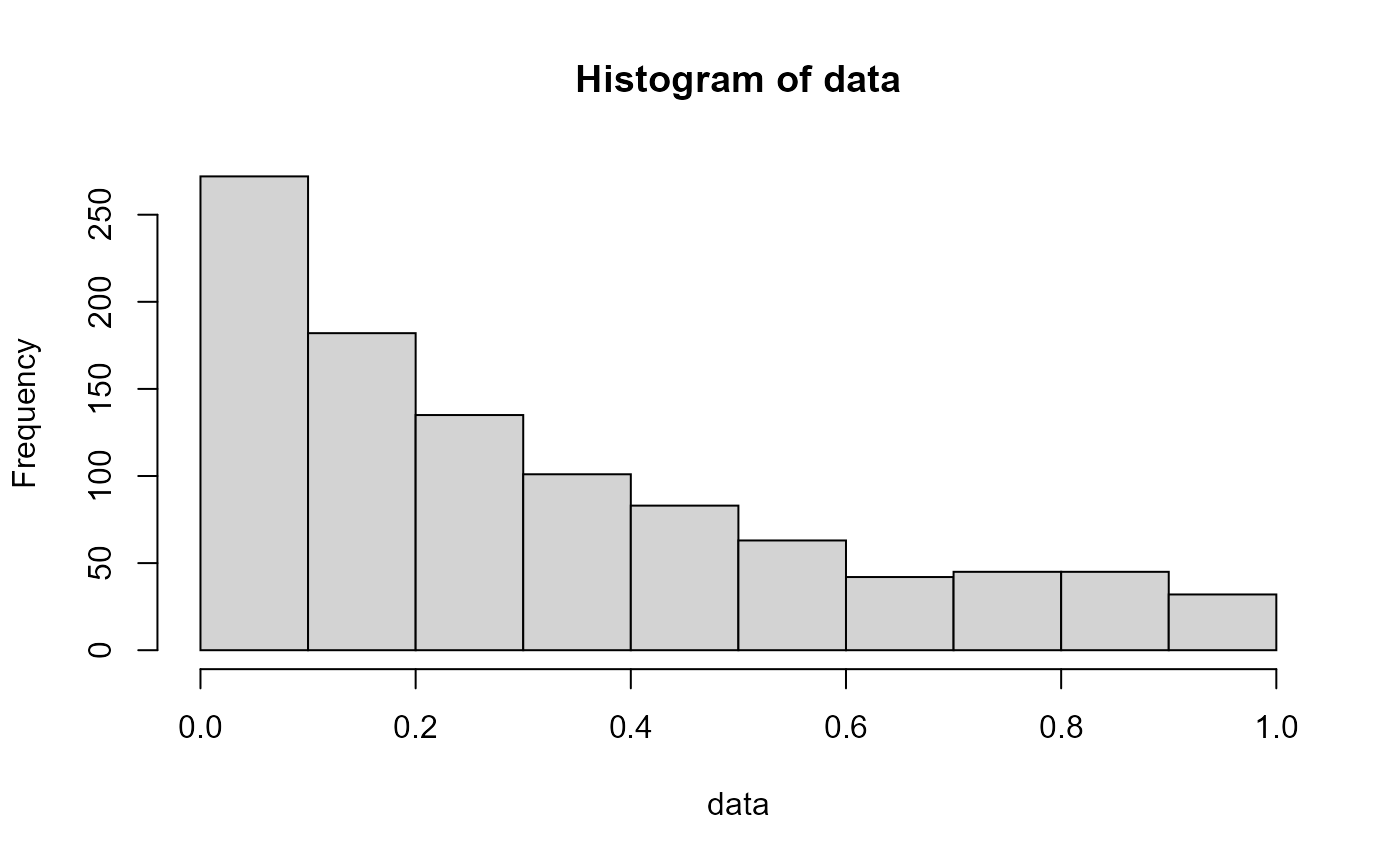
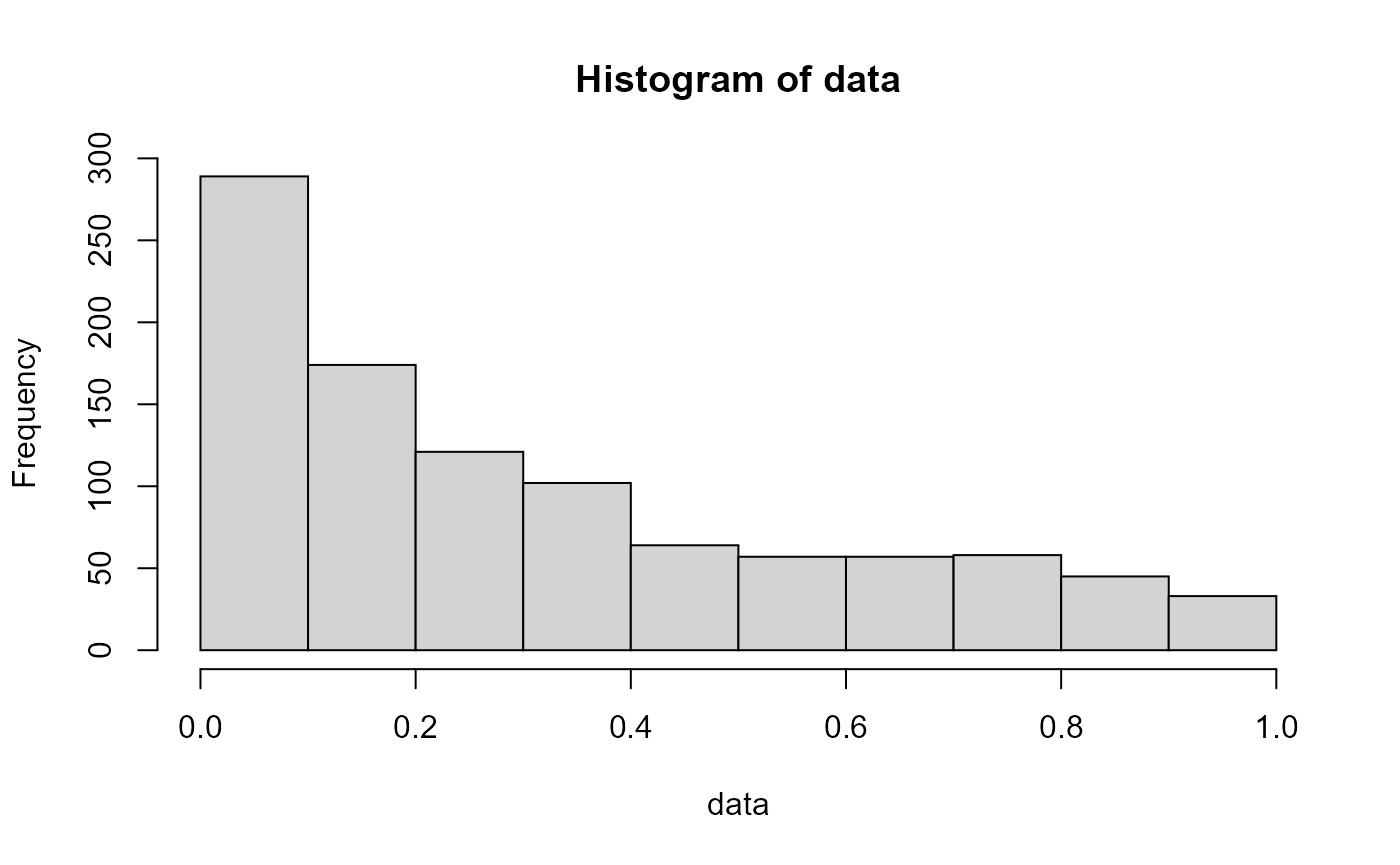
rebuilt site again

diff --git a/docs/index.html b/docs/index.html
@@ -116,8 +116,8 @@
 <code class="sourceCode R"><span class="kw"><a href="https://rdrr.io/r/base/library.html" class="external-link">library</a></span><span class="op">(</span><span class="va"><a href="https://github.com/victordogo/bradfordr" class="external-link">bradfordr</a></span><span class="op">)</span>
 
 <span class="fu"><a href="reference/bradford.html">rbradford</a></span><span class="op">(</span>n<span class="op">=</span><span class="fl">10</span><span class="op">)</span>
-<span class="co">#&gt;  [1] 0.006275595 0.247844463 0.293837070 0.323999566 0.152291729 0.053227594</span>
-<span class="co">#&gt;  [7] 0.025818298 0.563530255 0.018530782 0.246107191</span></code></pre></div>
+<span class="co">#&gt;  [1] 0.185216959 0.100725128 0.931113765 0.184023942 0.003606418 0.637271882</span>
+<span class="co">#&gt;  [7] 0.031869913 0.581854982 0.743135455 0.274802504</span></code></pre></div>
 <p>If the value of c is less or equal than 0, the function returns an error (this is true to all functions in this package).</p>
 </div>
 <div id="pbradford" class="section level3">

diff --git a/docs/reference/bradford.html b/docs/reference/bradford.html
@@ -214,7 +214,7 @@ for \(c &gt; 0\) and \(0 \leq x \leq 1\).</p>
 <span class='r-in'></span>
 <span class='r-in'><span class='co'># What value satisfies P(X &lt;= x) = 0.5 when c=13?</span></span>
 <span class='r-in'><span class='fu'>qbradford</span><span class='op'>(</span>p<span class='op'>=</span><span class='fl'>0.5</span>, c<span class='op'>=</span><span class='fl'>13</span><span class='op'>)</span></span>
-<span class='r-out co'><span class='r-pr'>#&gt;</span> [1] 0.2108967</span>
+<span class='r-err co'><span class='r-pr'>#&gt;</span> <span class='error'>Error in qbradford(p = 0.5, c = 13)</span> could not find function "qbradford"</span>
 <span class='r-in'></span>
 <span class='r-in'><span class='co'># Probability of P(X &lt;=0.5) when c=10</span></span>
 <span class='r-in'><span class='fu'>pbradford</span><span class='op'>(</span>q<span class='op'>=</span><span class='fl'>0.5</span>, c<span class='op'>=</span><span class='fl'>10</span><span class='op'>)</span></span>

diff --git a/docs/articles/rng-bradford-dist.html b/docs/articles/rng-bradford-dist.html
@@ -130,7 +130,7 @@ x = F^{-1}(u;c) = \frac{(1+c)^u - 1}{c}
 <span class="va">data</span> <span class="op">&lt;-</span> <span class="fu"><a href="../reference/bradford.html">rbradford</a></span><span class="op">(</span><span class="fl">1000</span>, c<span class="op">=</span><span class="fl">10</span><span class="op">)</span>
 
 <span class="fu"><a href="https://rdrr.io/r/utils/head.html" class="external-link">head</a></span><span class="op">(</span><span class="va">data</span><span class="op">)</span>
-<span class="co">#&gt; [1] 0.66480583 0.05628124 0.02542275 0.01170694 0.89382293 0.11907851</span></code></pre></div>
+<span class="co">#&gt; [1] 0.4285775 0.2947722 0.8744188 0.5838130 0.4518986 0.1738066</span></code></pre></div>
 <p>We can easily plot this data to understand how it behaves:</p>
 <div class="sourceCode" id="cb3"><pre class="downlit sourceCode r">
 <code class="sourceCode R">

diff --git a/README.md b/README.md
@@ -63,8 +63,8 @@ The standard value for `c` is 5:
 library(bradfordr)
 
 rbradford(n=10)
-#>  [1] 0.006275595 0.247844463 0.293837070 0.323999566 0.152291729 0.053227594
-#>  [7] 0.025818298 0.563530255 0.018530782 0.246107191
+#>  [1] 0.185216959 0.100725128 0.931113765 0.184023942 0.003606418 0.637271882
+#>  [7] 0.031869913 0.581854982 0.743135455 0.274802504
 ```
 
 If the value of c is less or equal than 0, the function returns an error
